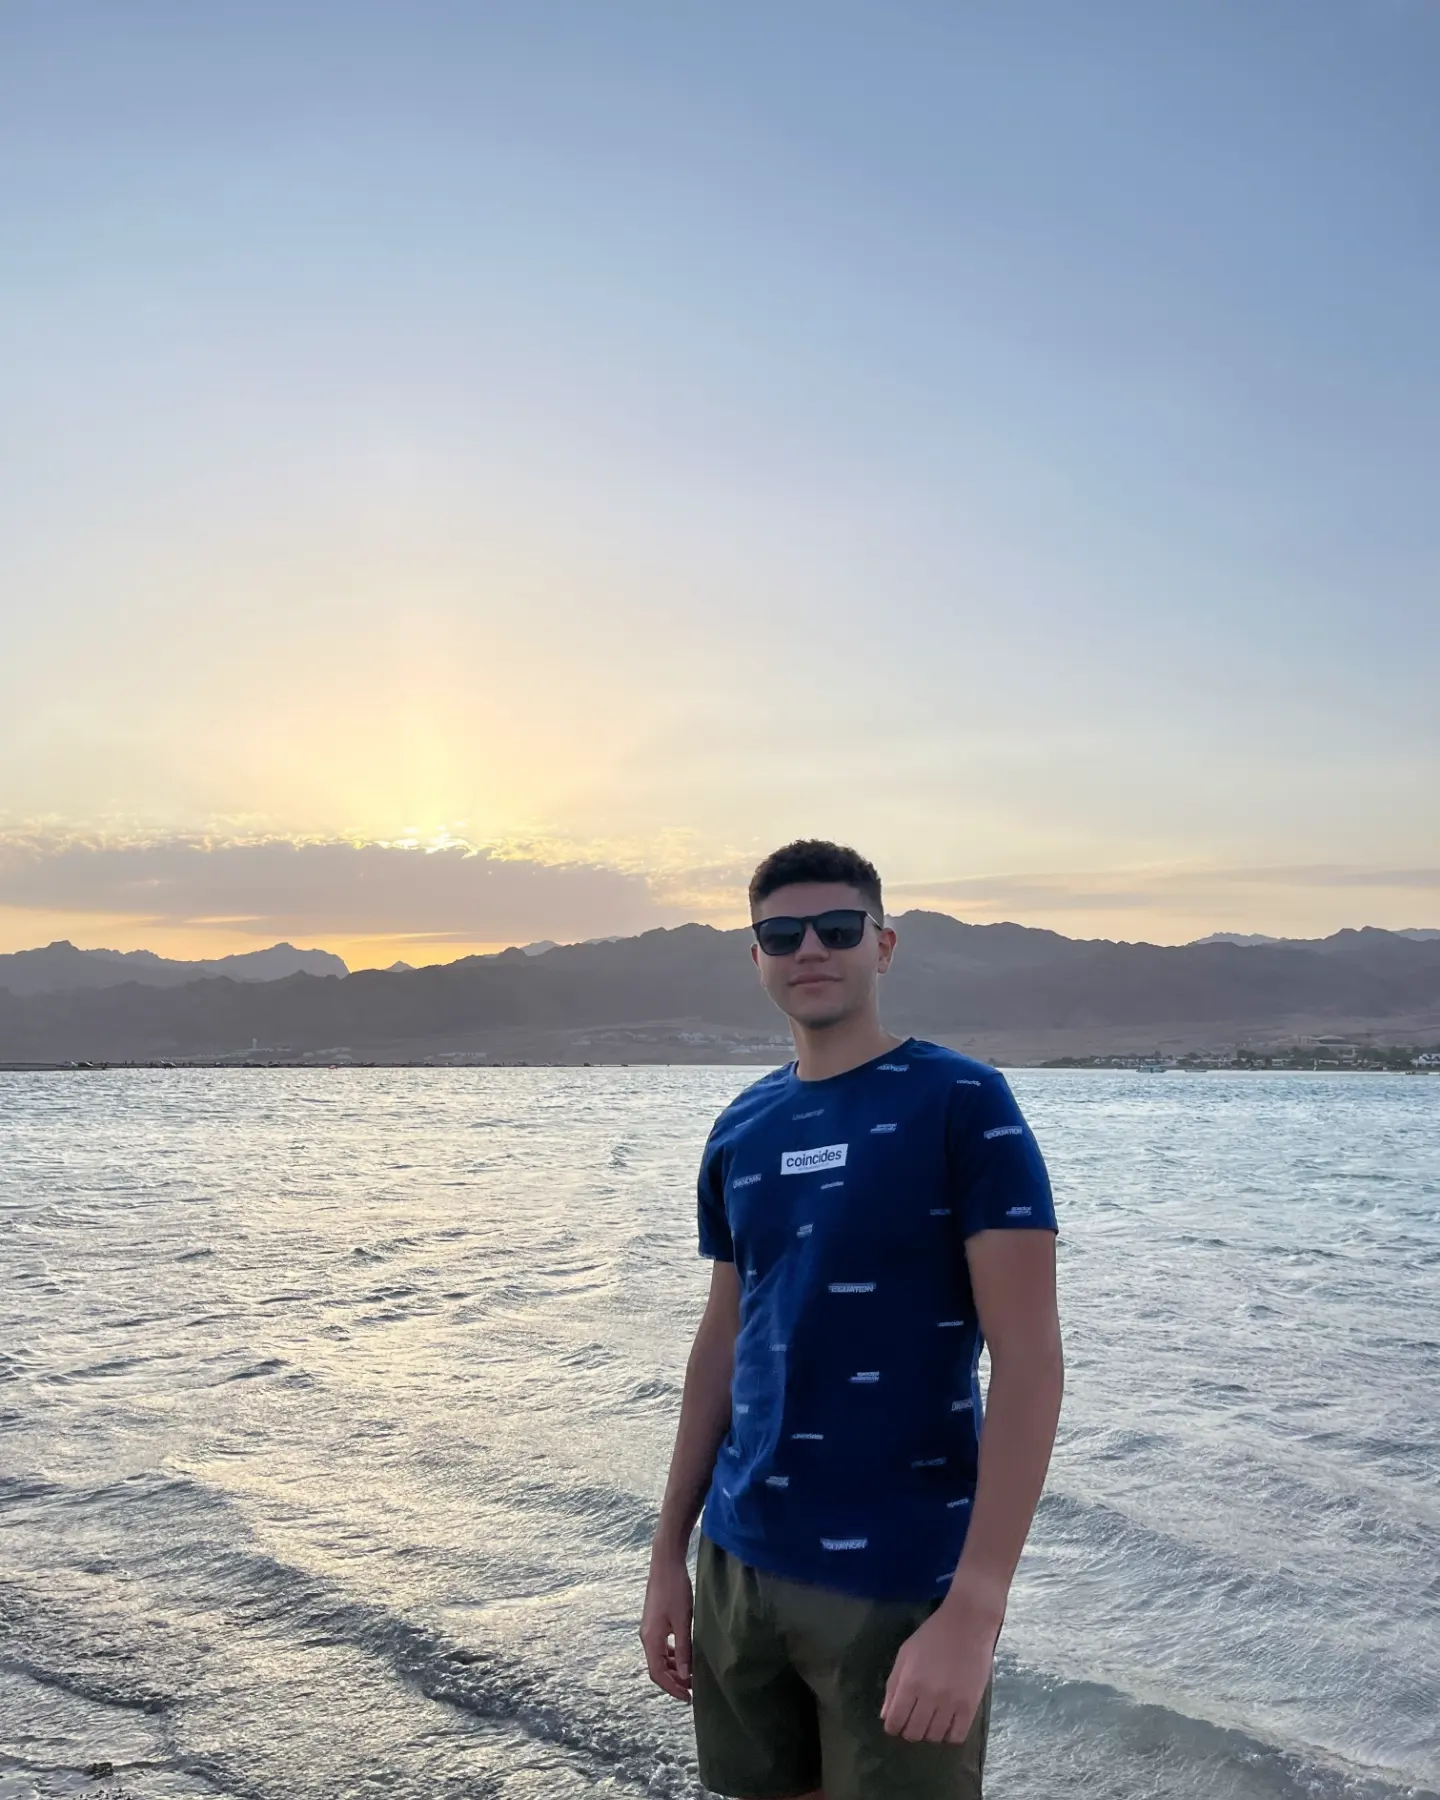
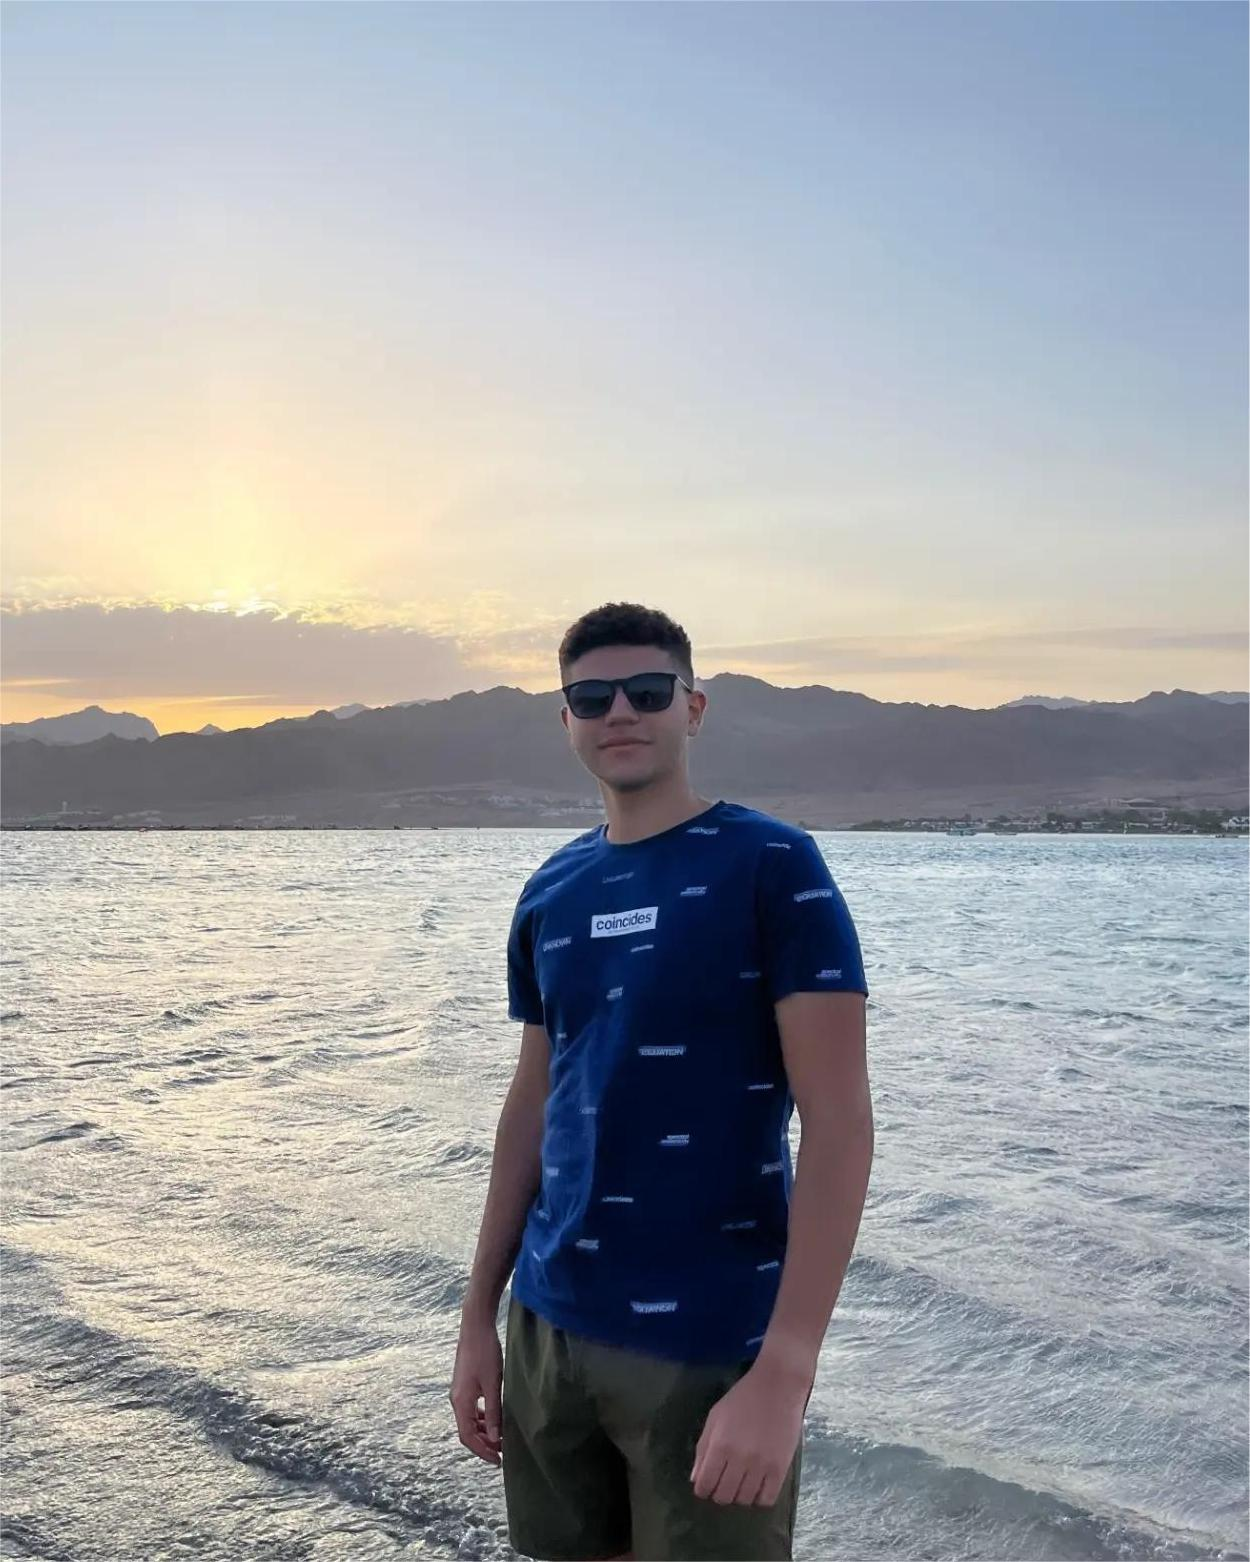
updates

diff --git a/src/components/Hero.jsx b/src/components/Hero.jsx
@@ -3,7 +3,7 @@ import { HERO_CONTENT } from './../constants/index';
 import ProfilePic from '../assets/Profile.jpg';
 const Hero = () => {
     return ( 
-    <div className='border-b border-neutral-800 pb-10 lg:mb-35'>
+    <div className='border-b border-neutral-800 pb-24 lg:mb-35'>
         <div className="flex flex-wrap lg:flex-nowrap">
             <div className='w-full lg:w-1/2 flex justify-center lg:justify-start'>
             <div className="flex flex-col items-center lg:items-start mx-4 ">
@@ -17,7 +17,7 @@ const Hero = () => {
             </div>
             <div className='w-full lg:w-1/2 flex justify-center lg:justify-middle lg:p-7'>
             <div className='overflow-hidden relative'>
-                <img src={ProfilePic} alt="Amr Ahmed" className="relative z-10 mx-auto rounded-xl lg:max-w-sm" />
+                <img src={ProfilePic} alt="Amr Ahmed" className="relative z-10 mx-auto rounded-xl lg:max-w-xs" />
             </div>
             </div>
         </div>

diff --git a/src/components/Skills.jsx b/src/components/Skills.jsx
@@ -1,7 +1,15 @@
 import React from "react";
-import { RiReactjsLine, RiGithubLine} from "react-icons/ri";
+import { RiReactjsLine } from "react-icons/ri";
 import { FaNodeJs } from "react-icons/fa";
-import {SiMongodb,SiTypescript, SiExpress,SiTailwindcss, SiBootstrap, SiMysql} from "react-icons/si";
+import {
+  SiMongodb,
+  SiTypescript,
+  SiExpress,
+  SiTailwindcss,
+  SiBootstrap,
+  SiMysql,
+  SiGithub
+} from "react-icons/si";
 const Skills = () => {
   return (
     <div className="border-b border-neutral-800 pb-24">
@@ -31,6 +39,9 @@ const Skills = () => {
         <div className="rounded-2xl border-4 border-neutral-800 p-4">
           <SiTailwindcss className="text-4xl text-cyan-400" />
         </div>
+          <div className="rounded-2xl border-4 border-neutral-800 p-4">
+            <SiGithub className="text-4xl " />
+          </div>
       </div>
     </div>
   );

diff --git a/src/components/Navbar.jsx b/src/components/Navbar.jsx
@@ -1,3 +1,4 @@
+/* eslint-disable jsx-a11y/alt-text */
 import Container from 'react-bootstrap/Container';
 import Nav from 'react-bootstrap/Nav';
 import Navbar from 'react-bootstrap/Navbar';
@@ -16,10 +17,10 @@ const NavBar = () => {
             />
           </Navbar.Brand>
             <Nav className="flex items-left gap-6 font-bold text-xl  ">
-              <Nav.Link href="#home">Home</Nav.Link>
               <Nav.Link href="#about">About Me</Nav.Link>
               <Nav.Link href="#skills">Skills</Nav.Link>
-              <Nav.Link href="#services">Services</Nav.Link>
+              <Nav.Link href="#projects">Projects</Nav.Link>
+              <Nav.Link href="#dreams">Dreams</Nav.Link>
               <Nav.Link href="#contact">Contact</Nav.Link>
             </Nav>
           </Container>

diff --git a/src/App.jsx b/src/App.jsx
@@ -15,7 +15,7 @@ const App = () => {
         <NavBar />
         <Hero />
         <Skills />
-        <Projects />
+        <Projects /> 
       </div>
     </div>
   );
